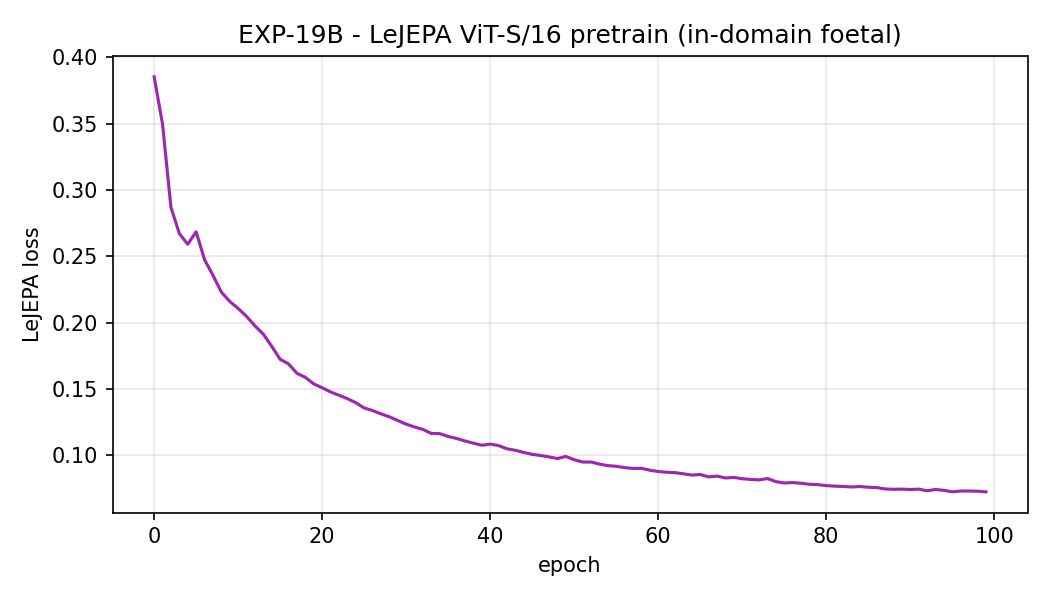
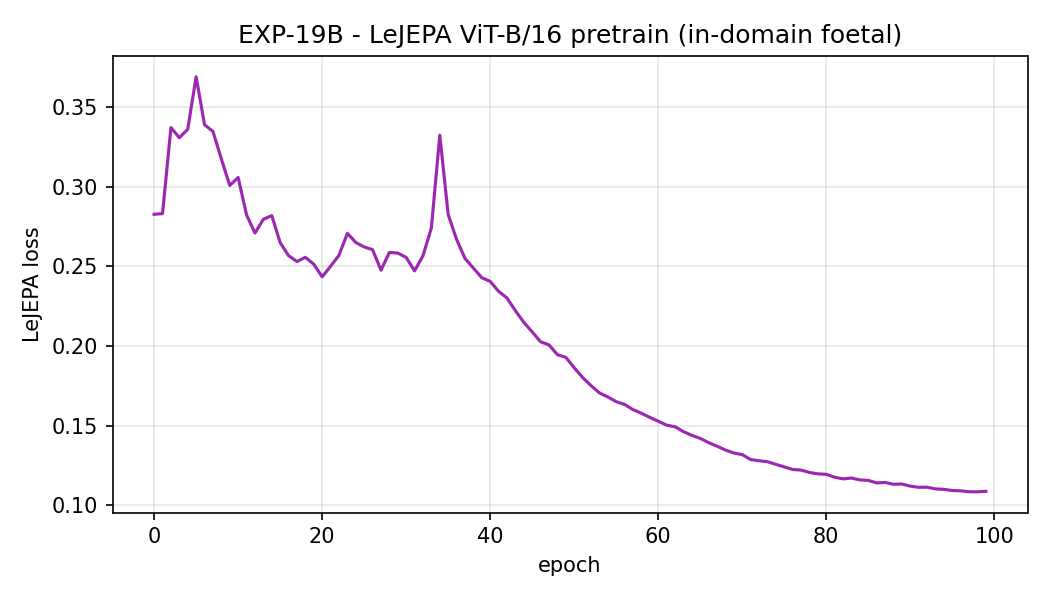
[EXP19B_LEJEPA_PRETRAIN] epochs=100; final_loss=0.1089; corpus_images=19205; backbone=vit_base_patch16_224; lambda=0.05; img=224; views=2

diff --git a/experiments/EXP19B_LEJEPA_PRETRAIN/summary.md b/experiments/EXP19B_LEJEPA_PRETRAIN/summary.md
@@ -1,13 +1,13 @@
 # EXP19B_LEJEPA_PRETRAIN
-*2026-06-20 06:31*
+*2026-06-20 17:12*
 
 ## Metriques
 | Metrique | Valeur |
 |---|---|
 | epochs | 100 |
-| final_loss | 0.0725 |
+| final_loss | 0.1089 |
 | corpus_images | 19205 |
-| backbone | vit_small_patch16_224 |
+| backbone | vit_base_patch16_224 |
 | lambda | 0.05 |
 | img | 224 |
 | views | 2 |